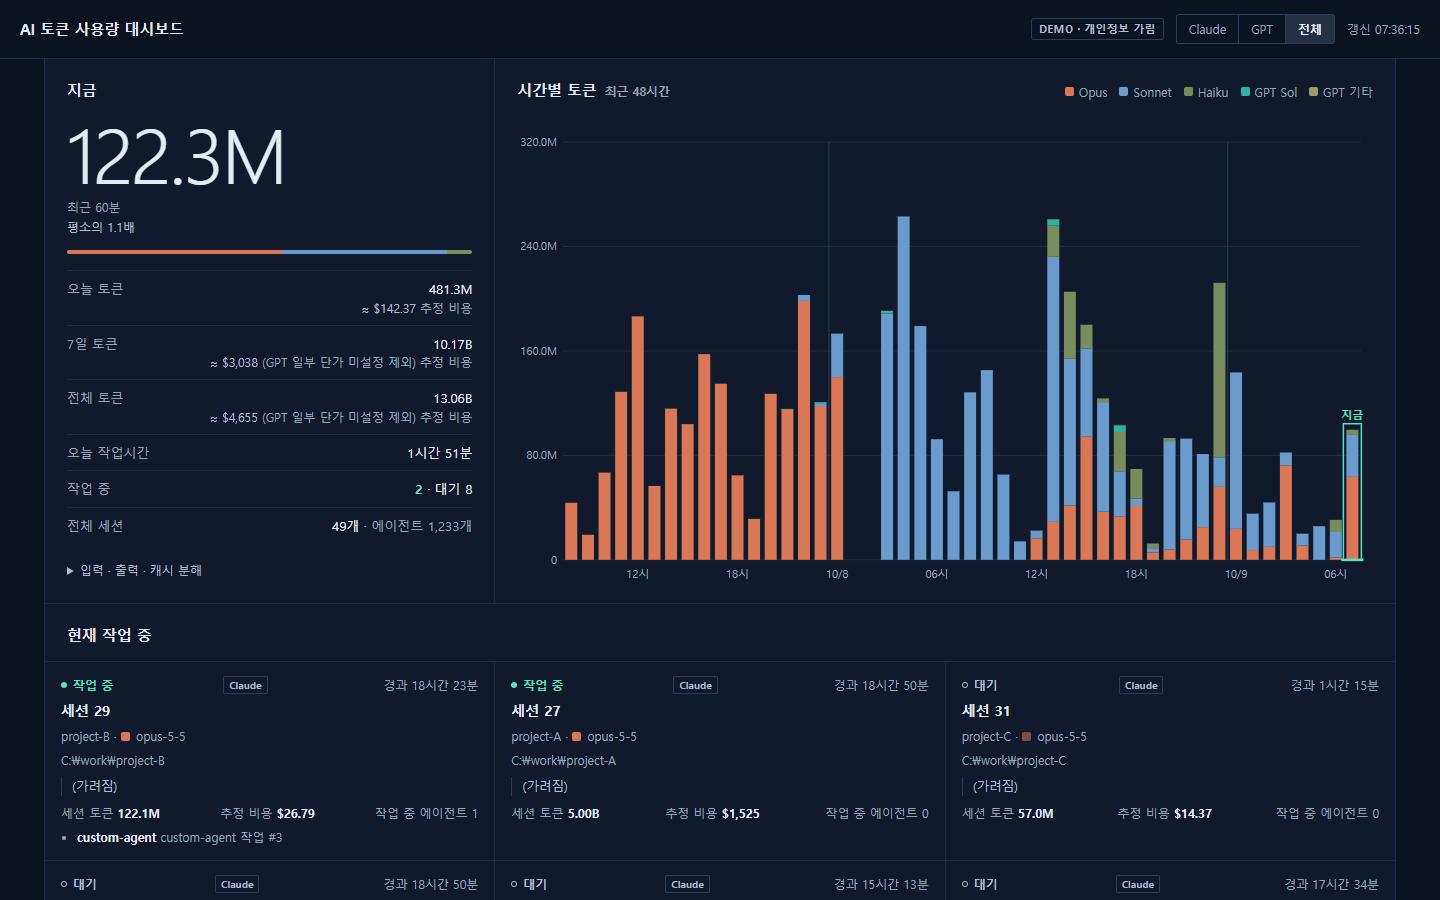
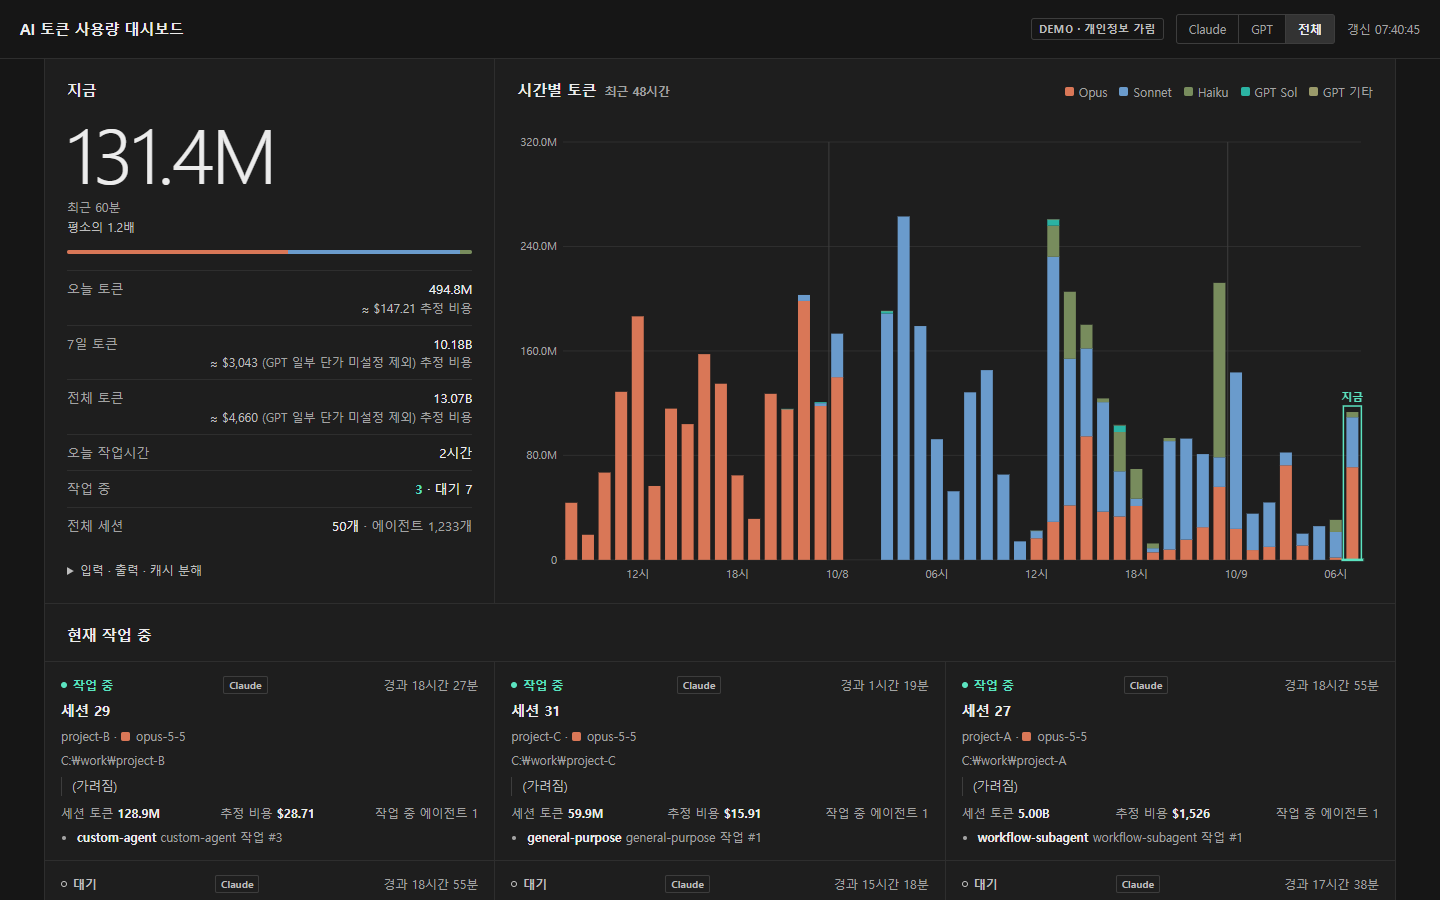
Design: neutral dark gray ground instead of navy (easier on the eyes)
Light theme moves to neutral grays as well; DESIGN.md, sidecar and README
screenshots updated.

diff --git a/public/style.css b/public/style.css
@@ -4,17 +4,17 @@
 
 :root {
   color-scheme: dark;
-  --ground: #0b1220;
-  --surface: #111a2c;
-  --surface-2: #17233b;
-  --line: #1f2b42;
-  --line-2: #2d3c58;
-  --ink: #e4ebf5;
-  --ink-2: #aebcd2;
-  --muted: #95a3bb;
+  --ground: #161616;
+  --surface: #1e1e1e;
+  --surface-2: #262626;
+  --line: #2e2e2e;
+  --line-2: #3d3d3d;
+  --ink: #ececec;
+  --ink-2: #bdbdbd;
+  --muted: #a3a3a3;
   --live: #5be3c0;
   --advisory: #ff9f43;
-  --focus: #9dbbe6;
+  --focus: #b5b5b5;
   --err: #ff8080;
   --font: "Pretendard", "Apple SD Gothic Neo", "Malgun Gothic", system-ui, -apple-system, "Segoe UI", sans-serif;
 }
@@ -22,33 +22,33 @@
 @media (prefers-color-scheme: light) {
   :root:not([data-theme="dark"]) {
     color-scheme: light;
-    --ground: #e3ecf5;
-    --surface: #f5f9fd;
-    --surface-2: #e8eff7;
-    --line: #c7d5e4;
-    --line-2: #a7b9cf;
-    --ink: #11203a;
-    --ink-2: #33455f;
-    --muted: #4b5d77;
+    --ground: #ebebeb;
+    --surface: #fafafa;
+    --surface-2: #f0f0f0;
+    --line: #d6d6d6;
+    --line-2: #b8b8b8;
+    --ink: #1a1a1a;
+    --ink-2: #3d3d3d;
+    --muted: #575757;
     --live: #08775a;
     --advisory: #a94a07;
-    --focus: #2d5a94;
+    --focus: #4a4a4a;
     --err: #b91c1c;
   }
 }
 :root[data-theme="light"] {
   color-scheme: light;
-  --ground: #e3ecf5;
-  --surface: #f5f9fd;
-  --surface-2: #e8eff7;
-  --line: #c7d5e4;
-  --line-2: #a7b9cf;
-  --ink: #11203a;
-  --ink-2: #33455f;
-  --muted: #4b5d77;
+  --ground: #ebebeb;
+  --surface: #fafafa;
+  --surface-2: #f0f0f0;
+  --line: #d6d6d6;
+  --line-2: #b8b8b8;
+  --ink: #1a1a1a;
+  --ink-2: #3d3d3d;
+  --muted: #575757;
   --live: #08775a;
   --advisory: #a94a07;
-  --focus: #2d5a94;
+  --focus: #4a4a4a;
   --err: #b91c1c;
 }
 
@@ -545,7 +545,7 @@ table.sess td.empty { text-align: center; cursor: default; }
 .overlay {
   position: fixed;
   inset: 0;
-  background: rgba(3, 7, 14, .6);
+  background: rgba(0, 0, 0, .6);
   z-index: 40;
 }
 .drawer {

diff --git a/DESIGN.md b/DESIGN.md
@@ -2,29 +2,29 @@
 name: AI 토큰 사용량 대시보드
 description: A local token-usage monitor read like a weather service reads the sky - a large 지금 reading, a 48-hour hourly strip, and a 특보 only when the burn is abnormal.
 colors:
-  night-ground: "#0b1220"
-  night-surface: "#111a2c"
-  night-surface-raised: "#17233b"
-  hairline: "#1f2b42"
-  hairline-strong: "#2d3c58"
-  ink: "#e4ebf5"
-  ink-secondary: "#aebcd2"
-  ink-muted: "#95a3bb"
+  night-ground: "#161616"
+  night-surface: "#1e1e1e"
+  night-surface-raised: "#262626"
+  hairline: "#2e2e2e"
+  hairline-strong: "#3d3d3d"
+  ink: "#ececec"
+  ink-secondary: "#bdbdbd"
+  ink-muted: "#a3a3a3"
   live-mint: "#5be3c0"
   advisory-amber: "#ff9f43"
-  focus-steel: "#9dbbe6"
+  focus-steel: "#b5b5b5"
   error-red: "#ff8080"
-  day-ground: "#e3ecf5"
-  day-surface: "#f5f9fd"
-  day-surface-raised: "#e8eff7"
-  day-hairline: "#c7d5e4"
-  day-hairline-strong: "#a7b9cf"
-  day-ink: "#11203a"
-  day-ink-secondary: "#33455f"
-  day-ink-muted: "#4b5d77"
+  day-ground: "#ebebeb"
+  day-surface: "#fafafa"
+  day-surface-raised: "#f0f0f0"
+  day-hairline: "#d6d6d6"
+  day-hairline-strong: "#b8b8b8"
+  day-ink: "#1a1a1a"
+  day-ink-secondary: "#3d3d3d"
+  day-ink-muted: "#575757"
   day-live-mint: "#08775a"
   day-advisory-amber: "#a94a07"
-  day-focus-steel: "#2d5a94"
+  day-focus-steel: "#4a4a4a"
   day-error-red: "#b91c1c"
   ink-opus: "#d97757"
   ink-sonnet: "#6a9bcc"
@@ -140,14 +140,14 @@ components:
 
 **Creative North Star: "The Night Forecast Office"**
 
-The dashboard reads token usage the way a weather service reads the sky. One large, light-weight numeral (지금, the last 60 minutes) is the temperature; a 48-hour hourly strip is the forecast; an amber 특보 appears only when the burn is abnormal and is otherwise absent. Everything sits on a night-sky navy ground, divided into one 12-column cell grid by 1px hairlines. Nothing floats, nothing casts a shadow, and nothing is stacked as a rounded card.
+The dashboard reads token usage the way a weather service reads the sky. One large, light-weight numeral (지금, the last 60 minutes) is the temperature; a 48-hour hourly strip is the forecast; an amber 특보 appears only when the burn is abnormal and is otherwise absent. Everything sits on a dark neutral gray ground, divided into one 12-column cell grid by 1px hairlines. Nothing floats, nothing casts a shadow, and nothing is stacked as a rounded card.
 
-Color is spent like a signal budget. Mint means exactly one thing (running now), amber means exactly one thing (an advisory), and the model-family inks are a fixed transit-map legend that never changes meaning between charts, dots and legends. All remaining chrome is navy, ink and hairline. Density is that of an instrument panel: 13-14px tabular text, compact controls, generous reading numerals.
+Color is spent like a signal budget. Mint means exactly one thing (running now), amber means exactly one thing (an advisory), and the model-family inks are a fixed transit-map legend that never changes meaning between charts, dots and legends. All remaining chrome is neutral gray, ink and hairline. Density is that of an instrument panel: 13-14px tabular text, compact controls, generous reading numerals.
 
 The page is built to stay open all day on a side monitor. Motion is limited to slow opacity pulses on live signals and a 0.2s drawer slide, all disabled under reduced motion. Dark is the default; the light theme is a daylight transposition of the same world, not a different one.
 
 **Key Characteristics:**
-- Night-sky navy ground with a slightly lighter work surface, divided by 1px hairlines.
+- Dark neutral gray ground (no blue cast, per the user) with a slightly lighter work surface, divided by 1px hairlines.
 - One 12-column cell grid that every panel and the live-session cards lock to.
 - Mint reserved for running now; amber reserved for 특보.
 - Fixed model-family inks, identical everywhere, brightest when active.
@@ -156,7 +156,7 @@ The page is built to stay open all day on a side monitor. Motion is limited to s
 
 ## Colors
 
-A night-sky navy neutral field carrying two reserved signal colors and a fixed legend of model-family inks.
+A dark neutral gray field carrying two reserved signal colors and a fixed legend of model-family inks.
 
 ### Primary
 - **Running Mint** (`live-mint`; daylight `day-live-mint`): the only "running now" signal. Used on the 작업 중 badge and its pulsing dot, the running-session count in the 지금 facts, and the current-hour outline, tick and 지금 label on the hourly strip. Never decorative, never a generic accent.

diff --git a/.impeccable/surfaces/public-index-html.md b/.impeccable/surfaces/public-index-html.md
@@ -16,7 +16,7 @@ Unresolved: none.
 
 THESIS: Read token usage like a weather service reads the sky: a large "지금" (now) reading, a 48-hour hourly forecast strip, and an advisory (특보) only when the burn is abnormal. Refuses the category default of a row of equal KPI cards over two charts and a table.
 
-OWN-WORLD: Night-sky navy ground (#0B1220) with a slightly lighter navy work surface; panels divided by 1px hairlines, no shadows, no rounded card stacks; one 12-column cell grid every panel locks to. Mint (#5BE3C0) is reserved exclusively for "running now"; amber (#FF9F43) only for the 특보 advisory. Model-family inks (Opus coral, Sonnet blue, Haiku olive, Fable violet, GPT families) are identical everywhere and brightest when active. System sans with tabular numerals; large light-weight numerals for readings, like a forecast's temperature. Ended sessions carry a quiet "종료" stamp state instead of fading away.
+OWN-WORLD: Dark neutral gray ground (#161616) with a slightly lighter gray work surface (user preference: no blue ground); panels divided by 1px hairlines, no shadows, no rounded card stacks; one 12-column cell grid every panel locks to. Mint (#5BE3C0) is reserved exclusively for "running now"; amber (#FF9F43) only for the 특보 advisory. Model-family inks (Opus coral, Sonnet blue, Haiku olive, Fable violet, GPT families) are identical everywhere and brightest when active. System sans with tabular numerals; large light-weight numerals for readings, like a forecast's temperature. Ended sessions carry a quiet "종료" stamp state instead of fading away.
 
 STORY: The visitor sees in one glance whether anything is running and how hard it is burning right now, compares the current hour with the last 48, notices an advisory if one fires, then scans live sessions and drops into the table or a session drawer when needed.
 
